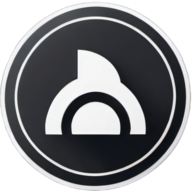
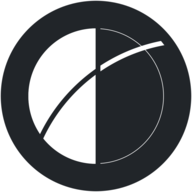
feat: assets change, suspense added

diff --git a/src/main.tsx b/src/main.tsx
@@ -1,16 +1,27 @@
-import React from 'react';
+import React, {Suspense, lazy} from 'react';
 import ReactDOM from 'react-dom/client';
 import './index.css';
 import {
 	 RouterProvider, createBrowserRouter,
 } from 'react-router-dom';
+
+// Const Layout = lazy(async () => import('./Pages/Layout.tsx'));
+const NotFound = lazy(async () => import('./Pages/NotFound/NotFound.tsx'));
+const Login = lazy(async () => import('./Pages/Auth/Login.tsx'));
+const Signup = lazy(async () => import('./Pages/Auth/Signup.tsx'));
+// Const Contacts = lazy(async () => import('./Pages/Contact/Contacts.tsx'));
+const Home = lazy(async () => import('./Pages/Home/Home.tsx'));
+const About = lazy(async () => import('./Pages/About/About.tsx'));
+// Const Loading = lazy(async () => import('./Components/Loading/Loading.tsx'));
+
 import Layout from './Pages/Layout.tsx';
-import NotFound from './Pages/NotFound/NotFound.tsx';
-import Login from './Pages/Auth/Login.tsx';
-import Signup from './Pages/Auth/Signup.tsx';
+// Import NotFound from './Pages/NotFound/NotFound.tsx';
+// import Login from './Pages/Auth/Login.tsx';
+// import Signup from './Pages/Auth/Signup.tsx';
 import Contacts from './Pages/Contact/Contacts.tsx';
-import Home from './Pages/Home/Home.tsx';
-import About from './Pages/About/About.tsx';
+// Import Home from './Pages/Home/Home.tsx';
+// import About from './Pages/About/About.tsx';
+import Loading from './Components/Loading/Loading.tsx';
 
 const router = createBrowserRouter([
 	{
@@ -44,6 +55,9 @@ const router = createBrowserRouter([
 
 ReactDOM.createRoot(document.getElementById('root')!).render(
 	<React.StrictMode>
-		<RouterProvider router={router} />
+		<Suspense fallback={<Loading/>}>
+			<RouterProvider router={router} />
+		</Suspense>
+
 	</React.StrictMode>,
 );

diff --git a/src/Components/Loading/Loading.module.css b/src/Components/Loading/Loading.module.css
@@ -1,0 +1,33 @@
+.loader {
+  position: absolute;
+  top: 0;
+  bottom: 0;
+  left: 0;
+  right: 0;
+
+  display: grid;
+  place-items: center;
+
+  background-color: var(--dark-grey);
+}
+
+.logoIMG {
+  animation: pulse 1s infinite ease-in-out alternate;
+
+  width: 50vw;
+}
+
+@media screen and (min-width: 768px) {
+  .logoIMG {
+    width: 20vw;
+  }
+}
+
+@keyframes pulse {
+  from {
+    transform: scale(0.9);
+  }
+  to {
+    transform: scale(1.1);
+  }
+}

diff --git a/src/Components/Loading/Loading.tsx b/src/Components/Loading/Loading.tsx
@@ -1,0 +1,11 @@
+import styles from './Loading.module.css';
+import logoIMG from '../../assets/logo.webp';
+
+export default function Loading() {
+	return (
+		<div className={styles.loader}>
+			{/* <h1>loading</h1> */}
+			<img className={styles.logoIMG} src={logoIMG} alt='logo img' />
+		</div>
+	);
+}

diff --git a/src/Components/Footer/Footer.tsx b/src/Components/Footer/Footer.tsx
@@ -8,7 +8,7 @@ export default function Footer() {
 				<Link to={'/contact'}>Contact us</Link>
 			</div>
 			<div className={styles.rights}>
-				<p>Copyright © 2024 Coinnect,<span>x</span></p>
+				<p>Copyright © 2023 Coinnect,<span>x</span></p>
 				<p>All rights reserved</p>
 			</div>
 		</div>

diff --git a/src/Components/Feautures/Card/Card.tsx b/src/Components/Feautures/Card/Card.tsx
@@ -6,7 +6,6 @@ type Props = {
 } & FeatureCardData;
 
 export default function Card({title, desc, inView}: Props) {
-	console.log(inView);
 	return (
 		<div className={`${styles.card} ${styles.hidden} ${inView && styles.open}`}>
 			<h4 className={styles.card_title}>{title}</h4>

diff --git a/src/hooks/mediaQuery.tsx b/src/hooks/mediaQuery.tsx
@@ -29,7 +29,6 @@ export default function useMediaQuery() {
 
 		window.addEventListener('resize', changeWith);
 		return () => {
-			console.log('useeffect');
 			window.removeEventListener('resize', changeWith);
 		};
 	}, [isTablet, isDesk]);
